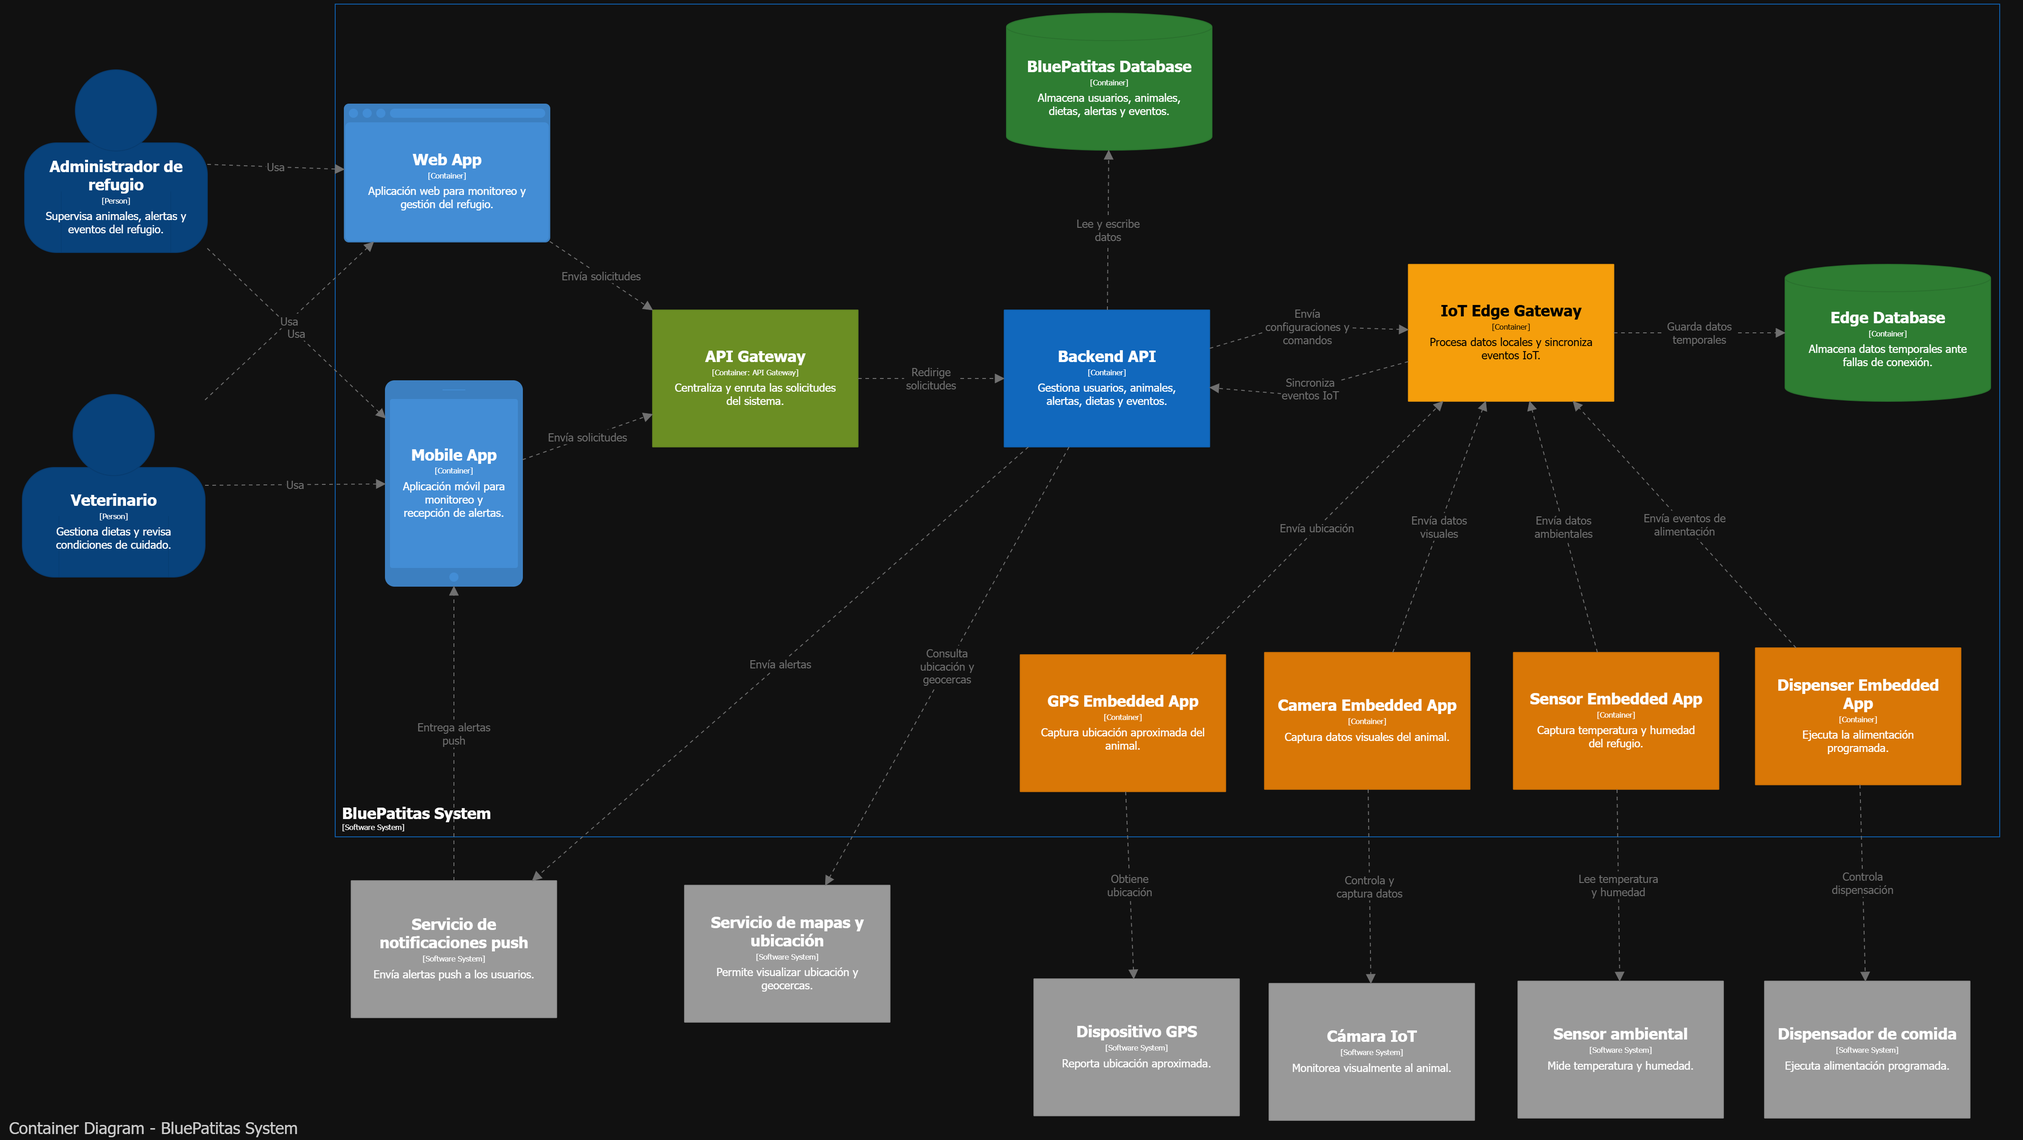
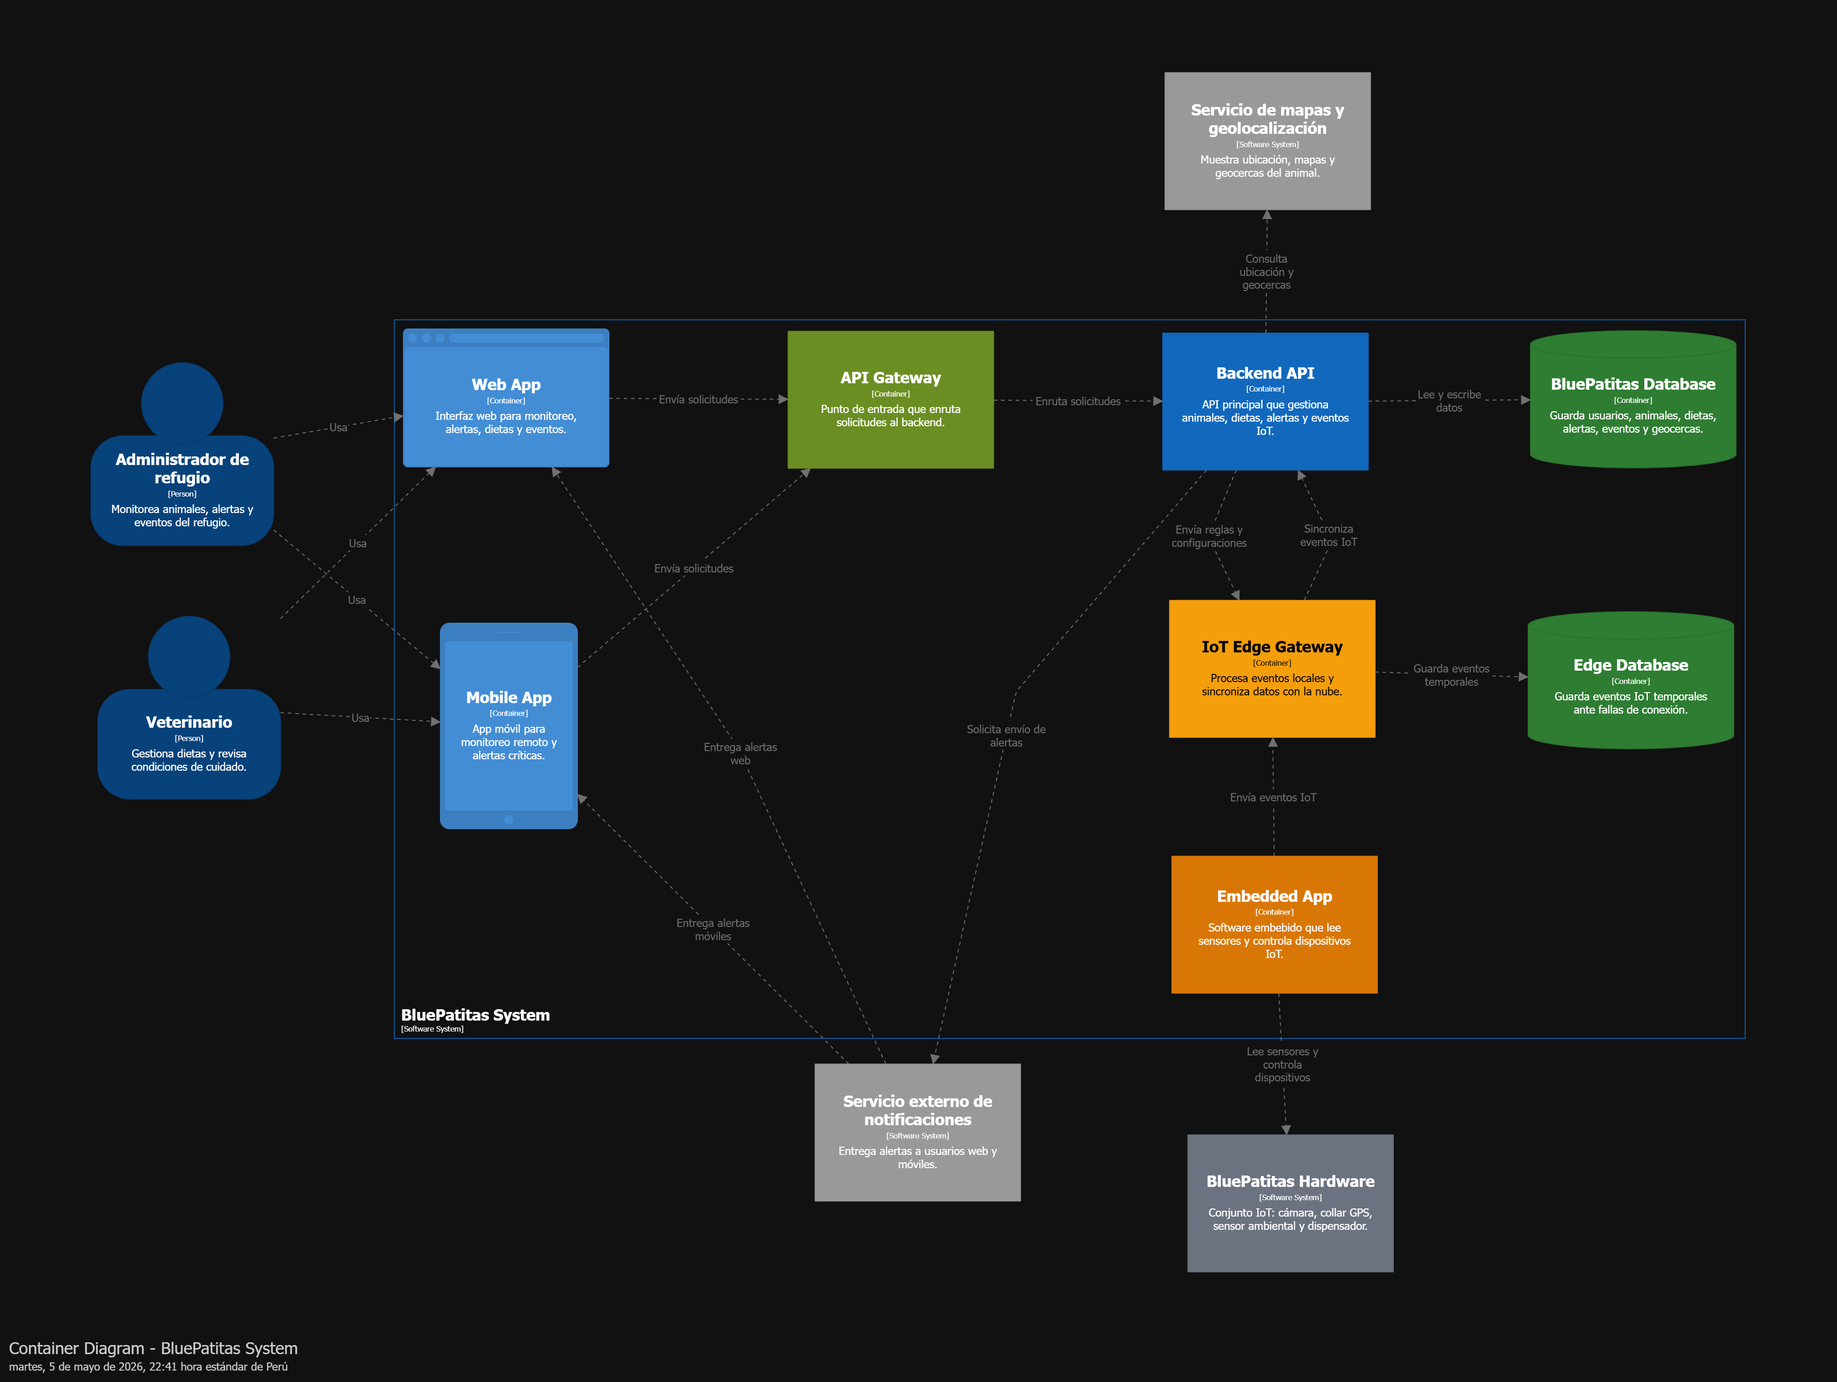
docs: fix report design and c4 diagrams

diff --git a/README.md b/README.md
@@ -1,54 +1,54 @@
-# <center>Project Report</center>
-
-<p align="center">
-    <strong>Universidad Peruana de Ciencias Aplicadas</strong><br>
+<p align="center">
     <img src="https://upload.wikimedia.org/wikipedia/commons/f/fc/UPC_logo_transparente.png" width="200"><br>
-    <strong>Ingeniería de Software - 2026-10</strong><br>
-    <strong>Desarrollo de Soluciones IOT - 17755</strong><br>
-    <strong>Profesor: Marco Antonio Leon Baca</strong><br>
-    <br><strong>Informe del Trabajo Final</strong>
+    <strong>Universidad Peruana de Ciencias Aplicadas</strong><br><br><br>
+    <strong>Ingeniería de Software</strong><br>
+    <strong>7mo ciclo, 2026-10</strong><br>
+    <strong>1ASI0572 Desarrollo de Soluciones IoT</strong><br>
+    <strong>NRC: 17755</strong><br>
+    <strong>Profesor: Marco Antonio Leon Baca</strong><br><br><br>
+    <strong>Informe del Trabajo Final</strong><br><br>
 </p>
 
 <p align="center">
-    <strong>Startup: BluePatitas </strong><br>
-    <strong>Producto: BluePatitas </strong>
+    <strong>Startup: BluePatitas</strong><br>
+    <strong>Producto: BluePatitas</strong><br><br>
 </p>
 
-<div style="text-align:center;">
-    <h3 align="center">Team Members:</h3>
-    <table align="center">
+<div align="center">
+    <strong>Relación de integrantes</strong><br><br>
+    <table>
         <tr>
-            <th style="text-align:center;">Member</th>
-            <th style="text-align:center;">Code</th>
+            <th>Code</th>
+            <th>Member</th>        
         </tr>
         <tr>
-            <td>Giancarlo Santiago Castañeda Guimas</td>
             <td>U202310601</td>
+            <td>Castañeda Guimas, Giancarlo Santiago</td>
         </tr>
         <tr>
-            <td>Luciana Carolina Choquehuanca Nuñez</td>
             <td>U202319431</td>
+            <td>Choquehuanca Nuñez, Luciana Carolina</td>
         </tr>
         <tr>
-            <td>Carlos Matthew Gonzales Valverde</td>
             <td>U202314130</td>
+            <td>Gonzales Valverde, Carlos Matthew</td>
         </tr>
         <tr>
-            <td>María Patricia Hernández Uchuya</td>
             <td>U202311258</td>
+            <td>Hernández Uchuya, María Patricia</td>
         </tr>
         <tr>
-            <td>Ronald Joel Peralta Chipa</td>
             <td>U202224619</td>
+            <td>Peralta Chipa, Ronald Joel</td>
         </tr>
     </table>
 </div>
 
-<p align="center">
+<p align="center" style="margin-top: 100px;">
     <strong>Abril, 2026</strong>
 </p>
 
-<br>
+<div style="page-break-after: always;"></div>
 
 # Registro de versiones del Informe
 
@@ -81,12 +81,16 @@
     </tr>
 </table>
 
-<br>
+<div style="page-break-after: always;"></div>
 
 # Project Report Collaboration Insights
 Link del repositorio del reporte: [https://github.com/1ASI0572-2610-17755-G3-BluePatitas/Project-Report](https://github.com/1ASI0572-2610-17755-G3-BluePatitas/Project-Report)
 
-<br>
+### AV1
+
+![CollaborationAV1](img/CollaborationAV1.PNG)
+
+<div style="page-break-after: always;"></div>
 
 # Contenido
 - [Student Outcome](#student-outcome)
@@ -189,10 +193,9 @@ Link del repositorio del reporte: [https://github.com/1ASI0572-2610-17755-G3-Blu
 - [Bibliografía](#bibliografía)
 - [Anexos](#anexos)
 
-<br>
+<div style="page-break-after: always;"></div>
 
 # Student Outcome
-
 
 <table align="center">
   <tr>
@@ -228,13 +231,7 @@ Link del repositorio del reporte: [https://github.com/1ASI0572-2610-17755-G3-Blu
   </tr>
 </table>
 
-<br>
-
-## Team Collaboration
-
-### AV1
-
-![CollaborationAV1](img/CollaborationAV1.PNG)
+<div style="page-break-after: always;"></div>
 
 # Capítulo I: Introducción
 
@@ -246,6 +243,7 @@ BluePatitas es una startup orientada al desarrollo de soluciones tecnológicas p
 La propuesta de BluePatitas se enfoca en brindar una solución accesible e innovadora que apoye a administradores de refugios y veterinarios mediante el uso de tecnología IoT y herramientas digitales. De esta manera, la startup busca contribuir a una gestión más eficiente, preventiva y ordenada del cuidado animal, facilitando el seguimiento de eventos relevantes y fortaleciendo la toma de decisiones en contextos donde el tiempo, el personal y los recursos suelen ser limitados.
 
 Como iniciativa de base tecnológica, BluePatitas proyecta integrar dispositivos IoT con productos digitales como aplicaciones web y móviles, permitiendo que la información recolectada se transforme en alertas, registros y soporte operativo útil para el entorno de refugios. Así, la startup plantea una propuesta con potencial de escalabilidad, enfocada en resolver una problemática real mediante una combinación de innovación, accesibilidad y compromiso con el bienestar animal.
+
 ### 1.1.2. Perfiles de integrantes del equipo
 
 <table align="center" border="1" cellspacing="0" cellpadding="8" style="width: 90%; border-collapse: collapse;">
@@ -264,7 +262,7 @@ Como iniciativa de base tecnológica, BluePatitas proyecta integrar dispositivos
 
 <table align="center" border="1" cellspacing="0" cellpadding="10" style="width: 90%; border-collapse: collapse;">
   <tr>    
-    <td style="width: 200px; text-align: center;">
+    <td style="width: 150px; text-align: center;">
       <img src="img/lluciana_img.png" style="width: 1000px; height: auto; border-radius: 10px;">
     </td>
     <td>
@@ -314,7 +312,7 @@ Como iniciativa de base tecnológica, BluePatitas proyecta integrar dispositivos
     <td>
       <p align="center"><strong>Ronald Joel Peralta Chipa - U202224619</strong></p>
       <p align="justify">
-         Mi nombre es Ronald, tengo 22 años y soy una persona comprometida con el orden, con un estilo de liderazgo democrático y una gran capacidad para escuchar y comprender. Disfruto crecer en equipo y aprender constantemente de los demás. Además, tengo interés en la cultura DevSecOps y la gestión de proyectos, lo que me permite tener un enfoque integral orientado a la seguridad, organización y mejora continua.
+         Mi nombre es Ronald, tengo 22 años y soy estudiante de la carrera de Ingeniería de Software. Me considero una persona comprometida con el orden, con un estilo de liderazgo democrático y una gran capacidad para escuchar y comprender. Disfruto crecer en equipo y aprender constantemente de los demás. Además, tengo interés en la cultura DevSecOps y la gestión de proyectos, lo que me permite tener un enfoque integral orientado a la seguridad, organización y mejora continua.
       </p>
     </td>
   </tr>
@@ -436,6 +434,7 @@ El Lean UX Canvas sintetiza el problema principal del proyecto, los usuarios inv
 | **Segmento 1: Administradores de refugios** | Este segmento es prioritario porque asume la gestión operativa del cuidado diario de los animales en el refugio. Necesita herramientas que faciliten el monitoreo remoto, la recepción de alertas ante posibles escapes o eventos anormales, la supervisión de condiciones ambientales y la verificación del cumplimiento de la alimentación programada. | - **Edades:** 20 a 50 años <br> - **Ubicación:** Perú <br> - **Motivaciones:** Mejorar el cuidado de los animales y optimizar la capacidad de respuesta del refugio. <br> - **Intereses:** Bienestar animal, gestión operativa, supervisión remota y uso práctico de tecnología. <br> - **Comportamiento:** Valoran soluciones accesibles que reduzcan tareas manuales y centralicen información relevante para la toma de decisiones. |
 | **Segmento 2: Veterinarios** | Este segmento comprende a los profesionales que brindan seguimiento clínico y recomendaciones de cuidado para animales alojados en refugios. Requieren acceso a información confiable sobre condiciones ambientales, alertas relevantes y cumplimiento de la dieta semanal prescrita, de modo que puedan coordinar mejor con los administradores del refugio. | - **Edades:** 20 a 60 años <br> - **Ubicación:** Perú <br> - **Motivaciones:** Asegurar continuidad en el cuidado indicado y mejorar la coordinación con refugios. <br> - **Intereses:** Bienestar animal, seguimiento de condiciones de cuidado, eficiencia operativa e innovación aplicada. <br> - **Comportamiento:** Utilizan información sintetizada y registros de eventos como apoyo para emitir recomendaciones y priorizar intervenciones. |
 
+<div style="page-break-after: always;"></div>
 
 # Capítulo II: Requirements Elicitation & Analysis
 
@@ -833,8 +832,6 @@ En este segmento se definió el User Persona **Andrees Caseres**, considerando s
 
 ![User Persona Administrador del refugio](img/userpersona_1.png)
 
-
-
 ### Veterinario
 
 En este segmento se definió el User Persona **Dr. Eva Mudel**, tomando en cuenta su trayectoria profesional, entorno de trabajo y enfoque en la atención médica de animales. Se consideraron sus motivaciones relacionadas con brindar un servicio eficiente y de calidad, así como sus principales frustraciones asociadas a la coordinación de casos, la falta de información oportuna y la gestión de recursos limitados.
@@ -851,7 +848,7 @@ En esta sección se detallan las tareas que realizan los usuarios clave de nuest
 
 Las tareas aquí descritas no dependen exclusivamente del uso del software, ya que representan acciones que los usuarios deben realizar en cualquier proceso de selección, sea manual o automatizado. Para cada tarea, se especifica su frecuencia y nivel de importancia, permitiendo identificar qué funciones son más críticas para cada perfil.
 
-#### 🧑💼 User Task Matrix – Administradores de refugios
+#### User Task Matrix – Administradores de refugios
 
 | Tarea                                             | Frecuencia | Importancia |
 |--------------------------------------------------|------------|-------------|
@@ -861,7 +858,7 @@ Las tareas aquí descritas no dependen exclusivamente del uso del software, ya q
 | Confirmar la ubicación exacta del animal mediante el sistema       | A veces     | Media        |
 | Analizar alertas de irregularidades en la ingesta alimentaria    | A menudo    | Alta       |
 
-#### 🙋♂ User Task Matrix – Veterinarios
+#### User Task Matrix – Veterinarios
 
 | Tarea                                          | Frecuencia | Importancia |
 |-----------------------------------------------|------------|-------------|
@@ -962,7 +959,7 @@ Cerca de la medianoche, dimos por concluida la sesión. El equipo logró obtener
 | **Tolva (Hopper)** | Depósito de almacenamiento físico del dispensador IoT donde se guarda el alimento seco para mantener su frescura. |
 | **Alimentación Manual** | Acción remota disparada intencionalmente por el Administrador desde la plataforma para proveer una ración extra o premio. |
 
-<br>
+<div style="page-break-after: always;"></div>
 
 # Capítulo III: Requirements Specification
 
@@ -1086,7 +1083,7 @@ Link Product Backlog en Jira: [https://matthewpro17-17770197508.atlassian.net/ji
 
 Invitación para poder visualizar Jira (entrar a este primero y aceptar la invitación, luego entrar al otro link): [https://id.atlassian.com/invite/p/jira-software?id=rR0gURm_RNOyBBhY-xMvrQ](#)
 
-<br>
+<div style="page-break-after: always;"></div>
 
 # Capítulo IV: Solution Software Design
 
@@ -1280,14 +1277,17 @@ Este enfoque garantiza una arquitectura escalable, mantenible y alineada con los
 
 #### 4.1.3.1. Software Architecture System Landscape Diagram
 El System Landscape Diagram presenta una vista general del ecosistema en el que se ubica BluePatitas. En este diagrama se identifican los usuarios principales, el sistema BluePatitas y los sistemas externos con los que interactúa, como los dispositivos IoT, el servicio de notificaciones push y el servicio de mapas. Su propósito es mostrar, de forma resumida, cómo la solución se relaciona con su entorno general.
+
 ![System Landscape Diagram](img/BluePatitasSystemLandscape.png)
 
 #### 4.1.3.2. Software Architecture Context Level Diagrams
 El Context Diagram muestra a BluePatitas System como el sistema central de la solución. En esta vista se detallan sus relaciones directas con los actores principales, que son los administradores de refugios y veterinarios, así como con los dispositivos IoT y servicios externos necesarios para el monitoreo, las alertas y la ubicación. Este diagrama permite comprender qué funciones cumple el sistema dentro del contexto del refugio.
+
 ![Context Level Diagrams](img/BluePatitasSystemContext.png)
 
 #### 4.1.3.3. Software Architecture Container Level Diagrams
 El Container Diagram descompone internamente el sistema BluePatitas en sus principales componentes de software. En esta vista se representan la aplicación web, la aplicación móvil, el API Gateway, el Backend API, la base de datos, el IoT Edge Gateway, la base de datos local del Edge y las aplicaciones embebidas que interactúan con los dispositivos IoT. Su finalidad es mostrar cómo se organiza técnicamente la solución y cómo fluye la información entre sus componentes.
+
 ![Context Level Diagrams](img/BluePatitasContainerDiagram.png)
 
 #### 4.1.3.4. Software Architecture Deployment Diagrams
@@ -1984,6 +1984,8 @@ El diseño de la base de datos para el _Veterinary Bounded Context_ persiste la 
 
 ![Veterinary Database Diagram](img/BoundedContextDiagrams/Veterinary/VeterinaryDatabaseDiagram.PNG)
 
+<div style="page-break-after: always;"></div>
+
 # Capítulo V: Solution UI/UX Design
 
 ## 5.1. Style Guidelines
@@ -2010,7 +2012,7 @@ El diseño de la base de datos para el _Veterinary Bounded Context_ persiste la 
 ## 5.5. Applications Prototyping
 ## 5.6. IoT Device Design
 
-<br>
+<div style="page-break-after: always;"></div>
 
 # Capítulo VI: Product Implementation, Validation & Deployment
 
@@ -2039,11 +2041,11 @@ El diseño de la base de datos para el _Veterinary Bounded Context_ persiste la 
 
 ## 6.4. Video About-the-Product
 
-<br>
+<div style="page-break-after: always;"></div>
 
 # Conclusiones
-# Conclusiones y recomendaciones
-## Conclusiones
+## Conclusiones y recomendaciones
+### Conclusiones
 
 - El valor real del IoT radica en la automatización operativa (Core Domains): El análisis estratégico demostró que el verdadero diferenciador de BluePatitas no es ser un directorio de mascotas, sino su capacidad para conectar reglas de software (como una dieta médica) con actuadores físicos (dispensadores), reduciendo drásticamente la carga operativa y los costos de los refugios.
 
@@ -2054,11 +2056,11 @@ El diseño de la base de datos para el _Veterinary Bounded Context_ persiste la 
 - La trazabilidad de eventos elimina la ambigüedad en el diseño: Modelar los Domain Message Flows utilizando los comandos y eventos exactos (técnica de post-its) comprobó teóricamente que la información fluye de manera correcta entre módulos, garantizando que ninguna acción física del hardware ocurra sin un disparador de negocio válido.
 
 - Clasificar estratégicamente optimiza los recursos de desarrollo: Al definir IAM como un subdominio genérico y Monitoring como un Core Domain, el equipo tiene una ruta clara: no se debe reinventar la rueda programando logins complejos, sino invertir todo el esfuerzo de ingeniería en el motor de reglas IoT y la telemetría.
-## Video About-the-Team
+### Video About-the-Team
 
 <br>
 
-## Recomendaciones
+### Recomendaciones
 
 - Implementar Edge Computing (Modo Offline): Los refugios suelen estar en zonas periféricas con mala conexión a internet. Se recomienda que el hardware local (Edge) tenga la capacidad de almacenar los cronogramas de alimentación (Feeding) y las reglas críticas de temperatura (Monitoring) para seguir funcionando autónomamente si se cae la red.
 
@@ -2070,26 +2072,27 @@ El diseño de la base de datos para el _Veterinary Bounded Context_ persiste la 
 
 - Pruebas de estrés y calibración de hardware: El papel lo aguanta todo, pero el hardware físico falla. Se recomienda destinar una fase exclusiva del proyecto a la calibración de los sensores DHT11 (humedad/temperatura) y pruebas de resistencia de los collares GPS para asegurar que las alertas de Monitoring no generen falsos positivos que terminen frustrando al administrador del refugio.
 
-<br>
+<div style="page-break-after: always;"></div>
 
 # Bibliografía
 
-- Fundación Affinity. (s.f.). Las cifras del abandono de perros y gatos aún lejos de descender. [Fundación Affinity. (s.f.). Las cifras del abandono de perros y gatos aún lejos de descender. Recuperado de https://www.fundacion-affinity.org/perros-gatos-y-personas/busco-un-animal-de-compania/las-cifras-del-abandono-de-perros-y-gatos-aun](https://www.fundacion-affinity.org/perros-gatos-y-personas/busco-un-animal-de-compania/las-cifras-del-abandono-de-perros-y-gatos-aun)
+- Fundación Affinity. (s.f.). *Las cifras del abandono de perros y gatos aún lejos de descender.* [Fundación Affinity. (s.f.). Las cifras del abandono de perros y gatos aún lejos de descender. Recuperado de https://www.fundacion-affinity.org/perros-gatos-y-personas/busco-un-animal-de-compania/las-cifras-del-abandono-de-perros-y-gatos-aun](https://www.fundacion-affinity.org/perros-gatos-y-personas/busco-un-animal-de-compania/las-cifras-del-abandono-de-perros-y-gatos-aun)
 
-- GEA Group. (s.f.). Activity Detection – GEA CowScout. [https://www.gea.com/es/products/milking-farming-barn/gea-herd-management/activity-detection-cowscout/](https://www.gea.com/es/products/milking-farming-barn/gea-herd-management/activity-detection-cowscout/)
+- GEA Group. (s.f.). *Activity Detection – GEA CowScout.* [https://www.gea.com/es/products/milking-farming-barn/gea-herd-management/activity-detection-cowscout/](https://www.gea.com/es/products/milking-farming-barn/gea-herd-management/activity-detection-cowscout/)
 
-- Pinto, A. (2021). Las protectoras de animales denuncian la falta de recursos. La Opinión de Málaga [https://www.laopiniondemalaga.es/municipios/2021/11/08/protectoras-animales-denuncian-falta-recursos-59278673.html](https://www.laopiniondemalaga.es/municipios/2021/11/08/protectoras-animales-denuncian-falta-recursos-59278673.html)
+- Pinto, A. (2021). *Las protectoras de animales denuncian la falta de recursos. La Opinión de Málaga* [https://www.laopiniondemalaga.es/municipios/2021/11/08/protectoras-animales-denuncian-falta-recursos-59278673.html](https://www.laopiniondemalaga.es/municipios/2021/11/08/protectoras-animales-denuncian-falta-recursos-59278673.html)
 
-- Valdelomar, D. (2025). Deconstrucción de los conceptos de Bienestar Animal y Sufrimiento Innecesario Animal en el sistema jurídico peruano. Recurso procedente de la Pontificia Universidad Católica del Perú (PUCP). [https://tesis.pucp.edu.pe/items/173234ff-fb31-4300-8d26-d5659388b7c7](https://tesis.pucp.edu.pe/items/173234ff-fb31-4300-8d26-d5659388b7c7)
-<br>
+- Valdelomar, D. (2025). *Deconstrucción de los conceptos de Bienestar Animal y Sufrimiento Innecesario Animal en el sistema jurídico peruano.* Recurso procedente de la Pontificia Universidad Católica del Perú (PUCP). [https://tesis.pucp.edu.pe/items/173234ff-fb31-4300-8d26-d5659388b7c7](https://tesis.pucp.edu.pe/items/173234ff-fb31-4300-8d26-d5659388b7c7)
+
+<div style="page-break-after: always;"></div>
 
 # Anexos
 
 ## Anexo A: Links importantes:
 
-Link del Repositorio del Informe: 
-Link del Repositorio del Backend: 
-Link del Repositorio del Frontend Aplicación Web: 
-Link del Repositorio del Frontend Aplicación Móvil: 
+Link del Repositorio del Informe: <br>
+Link del Repositorio del Backend: <br>
+Link del Repositorio del Frontend Aplicación Web: <br> 
+Link del Repositorio del Frontend Aplicación Móvil: <br>
 
 ## Anexo B: Exposiciones:
